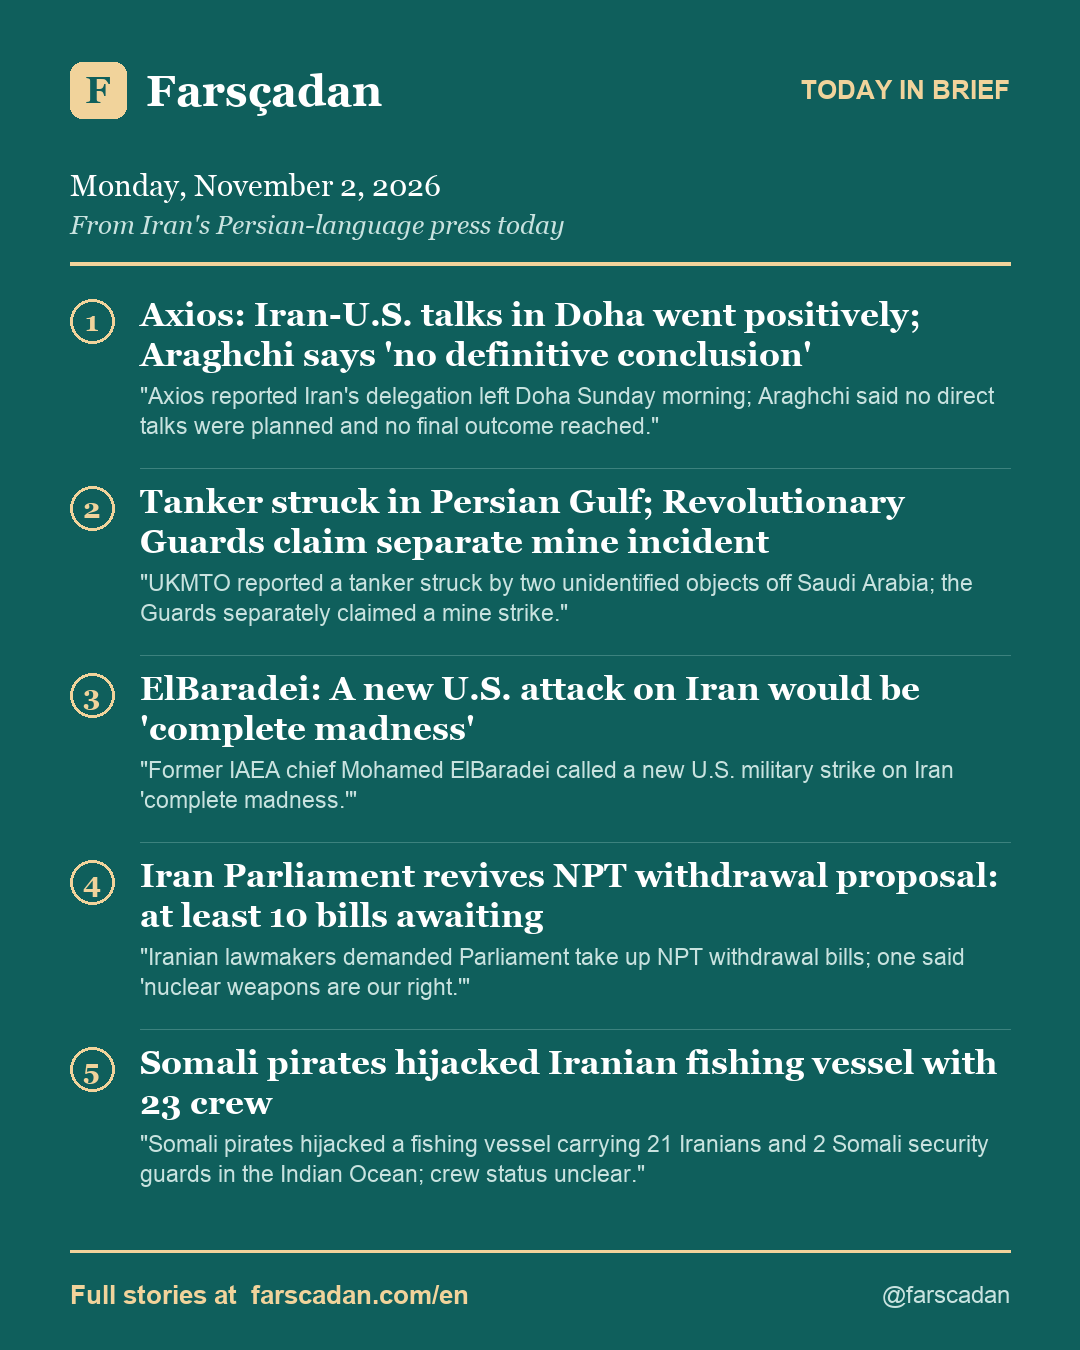
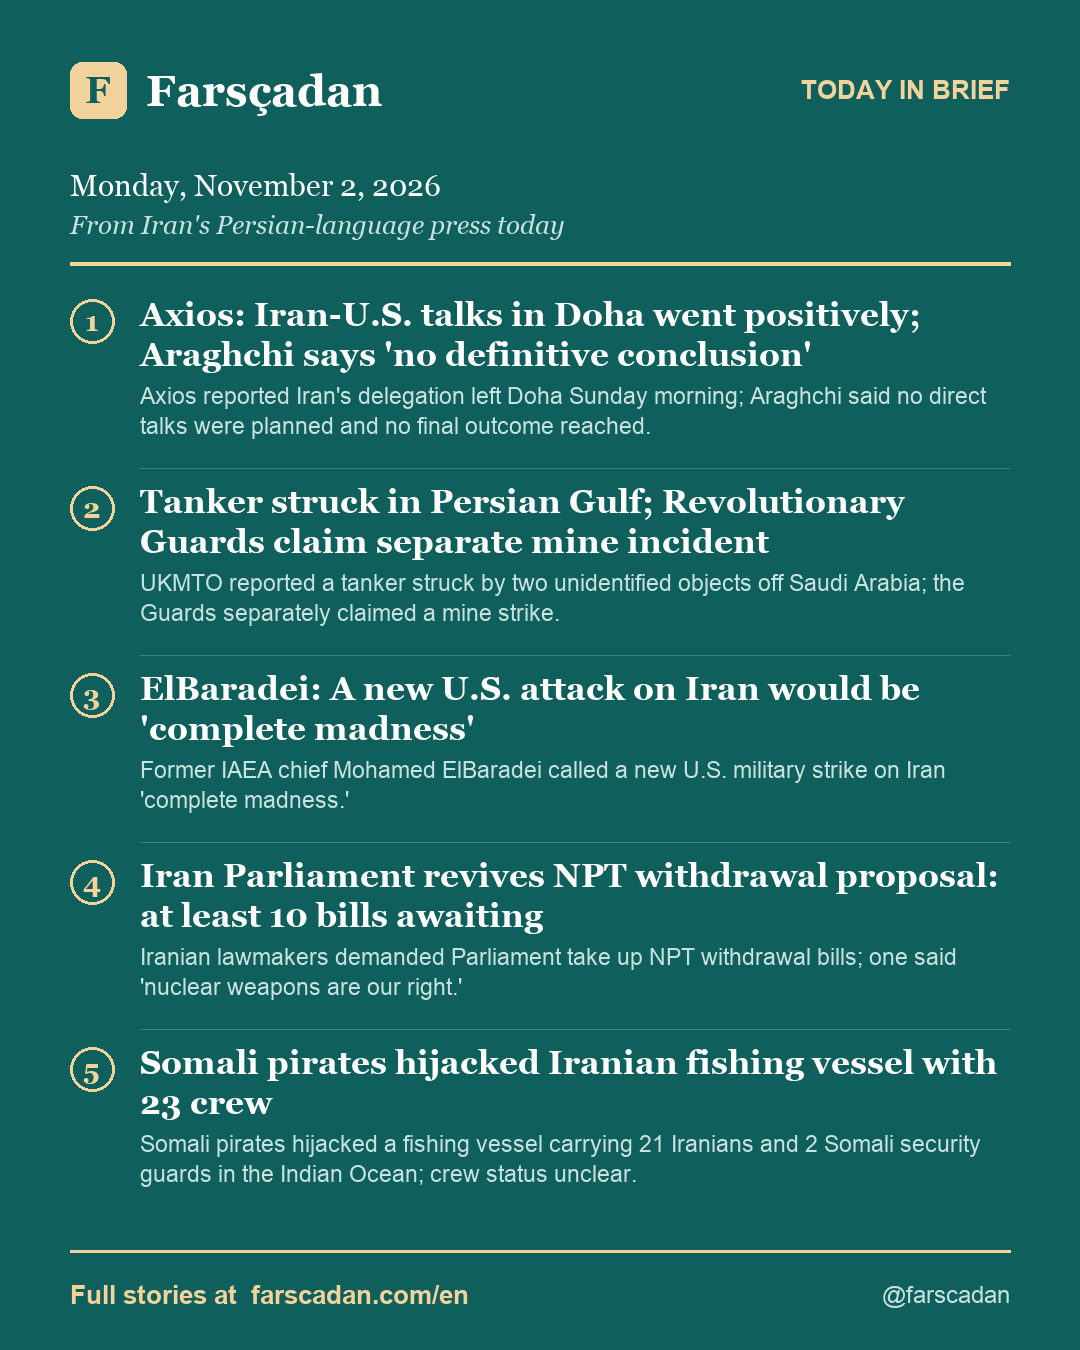
İçerik: Günün Özeti: özetlerde tırnak temizliği; x_paylas uzunluk hesabı

diff --git a/rutin/x_paylas.py b/rutin/x_paylas.py
@@ -115,8 +115,10 @@ def main():
     gorsel = a[a.index("--gorsel") + 1] if "--gorsel" in a else None
     sayi = bugunku_sayi()
     print("bugün gönderilen: %d / tavan %d" % (sayi, GUNLUK_TAVAN))
-    if len(metin) > 280:
-        sys.exit("HATA: metin 280 karakteri aşıyor (%d)" % len(metin))
+    import re
+    uzunluk = len(re.sub(r"https?://\S+", "x" * 23, metin))  # X her bağlantıyı 23 karakter sayar
+    if uzunluk > 280:
+        sys.exit("HATA: metin 280 karakteri aşıyor (%d)" % uzunluk)
     if "--prova" in a:
         print("PROVA — gönderilmedi:\n%s\n[görsel: %s]" % (metin, gorsel or "yok"))
         return

diff --git a/rutin/ozet_karti.py b/rutin/ozet_karti.py
@@ -112,7 +112,7 @@ def main():
         for j, line in enumerate(hl):
             dr.text((x, y + j * 40), line, font=f_head, fill=WHITE)
         dy = y + len(hl) * 40 + 8
-        for j, line in enumerate(wrap(dr, m.get("ozet", ""), f_desc, w, 2)):
+        for j, line in enumerate(wrap(dr, m.get("ozet", "").strip('"'), f_desc, w, 2)):
             dr.text((x, dy + j * 30), line, font=f_desc, fill=MUTED)
         if i < len(items) - 1:
             dr.line([x, y + slot - 14, W - M, y + slot - 14], fill=LINE, width=1)
